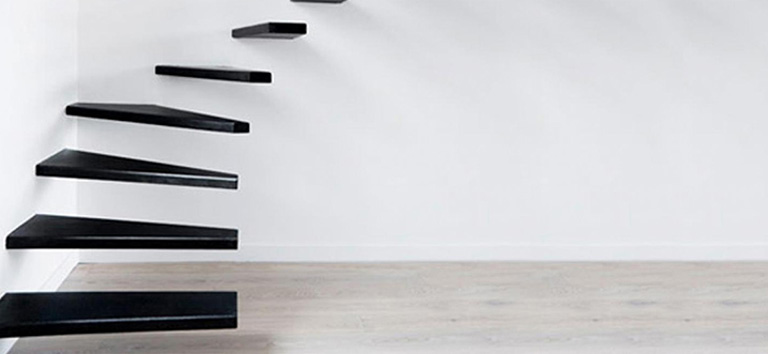
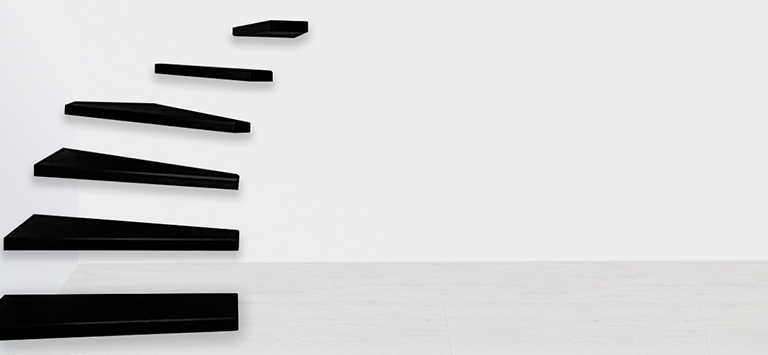
NEw version of site

diff --git a/src/_html_block/reviews/reviews.html b/src/_html_block/reviews/reviews.html
@@ -2,7 +2,7 @@
   <h2 class="reviews__title">Reviews</h2>
   <div class="reviews__slider">
     <div class="reviews__slider-inner">
-      <div>
+      <!-- <div>
         <article class="reviews__slide">
           <header class="reviews__header">SAHOLA Floral Art & Event&nbsp;Design</header>
           <div class="reviews__info">
@@ -26,7 +26,7 @@
             <a href="https://saholany.com/" rel="nofollow" class="reviews__link">www.saholany.com</a>
           </div>
         </article>
-      </div>
+      </div> -->
       <div>
         <article class="reviews__slide">
           <header class="reviews__header">Quality electrical & generator&nbsp;services</header>
@@ -42,7 +42,7 @@
           </div>
           <div class="reviews__slide-descr">
             <div class="reviews__quote-block">
-              <blockquote class="reviews__quote">I want to thank KFL Digital for a great service. The whole development process went smooth. They have reached the desired results on time. It was a pleasure working with you&nbsp;guys.</blockquote>
+              <blockquote class="reviews__quote">I want to thank KFL for a great service. The whole development process went smooth. They have reached the desired results on time. It was a pleasure working with you&nbsp;guys.</blockquote>
               <p class="reviews__author">Oleg</p>
               <p class="reviews__author-position">Co-owner High Quality electrical & generator&nbsp;services</p>
             </div>

diff --git a/src/_html_block/promo/promo.scss b/src/_html_block/promo/promo.scss
@@ -2,13 +2,13 @@
   position: relative;
   &__animation {
     .promo__img-2 {
-      animation: promoStairsOn .6s linear forwards, promoStairsOn .6s linear reverse 3.2s forwards;
+      animation: promoStairsOn .6s linear forwards;
     }
     .promo__img-3 {
-      animation: promoStairsOn .6s linear .6s forwards, promoStairsOn .6s linear reverse 2.6s forwards;
+      animation: promoStairsOn .6s linear .6s forwards;
     }
     .promo__img-4 {
-      animation: promoStairsOn .6s linear 1.2s forwards, promoStairsOn .6s linear reverse 2s forwards;
+      animation: promoStairsOn .6s linear 1.2s forwards;
     }
 
     .promo__slogan-1,

diff --git a/src/work-diagno-check.html b/src/work-diagno-check.html
@@ -2,7 +2,7 @@
 <html lang="en">
 <head>
   <title>Modern creative web design of a landing page for the Diagno Check | KFL Webdesign</title>
-  <meta name="description" content="KFL Webdesign developed a creative, landing page with a suitable web design, simple to use and optimized for all devices for Diagno Check">
+  <meta name="description" content="KFL Webdesign developed a creative, landing page with a suitable web design, simple to use and optimized for all devices for Diagno Check">
   <meta name="keywords" content="">
   @@include("_html_block/head/head.html")
 </head>

diff --git a/src/work-quality-electrical-and-generator-services.html b/src/work-quality-electrical-and-generator-services.html
@@ -2,7 +2,7 @@
 <html lang="en">
 <head>
   <title>Plain and simple Creative Web Desingn for Quality electrical & generator services</title>
-  <meta name="description" content="KFL Webdesign developed the website using WordPress platform with responsive web design for “Quality electrical & generator services”">
+  <meta name="description" content="KFL Webdesign developed the website using WordPress platform with responsive web design for “Quality electrical & generator services”">
   <meta name="keywords" content="">
   @@include("_html_block/head/head.html")
 </head>

diff --git a/src/index.html b/src/index.html
@@ -1,8 +1,8 @@
 <!DOCTYPE html>
 <html lang="en">
 <head>
-  <title>Website design development for small business</title>
-  <meta name="description" content="Website development Agency based in Philadelphia. We make affordable creative design for small business">
+  <title>Website design development for small business | Philadelphia, PA</title>
+  <meta name="description" content="Website development Agency based in Philadelphia. We make affordable creative design for small business.">
   <meta name="keywords" content="">
   @@include("_html_block/head/head.html")
 </head>

diff --git a/src/_html_block/who/who.scss b/src/_html_block/who/who.scss
@@ -1,7 +1,5 @@
 .who {
   position: relative;
-
-  max-width: 1130px;
   padding: 35px 0 50px;
   &--active {
     &::after {
@@ -29,7 +27,8 @@
 
     text-align: right;
 
-    @include main-title(0 7px 0 0);
+    @include main-title(0 15px);
+    padding: 0 40px 0 0;
   }
   &__info {
     position: relative;
@@ -98,6 +97,7 @@
     padding: 20px 0 0;
     &__title {
       margin: 0 58px 10px;
+      padding: 0;
     }
     &::after {
       width: 31%;

diff --git a/src/_html_block/benefits/benefits.html b/src/_html_block/benefits/benefits.html
@@ -3,7 +3,7 @@
   <blockquote class="benefits__quote">Choosing our company you get a number of undoubted advantages</blockquote>
   <div class="benefits__descr">
     <p>Top notch engagement design.</p>
-    <p>Site optimized for all gadgets.</p>
+    <p>The website optimized for all devices.</p>
     <p>High quality development process.</p>
     <p>Flexible development time frame.</p>
     <p>Quality post launch support.</p>

diff --git a/src/_html_block/benefits/benefits.scss b/src/_html_block/benefits/benefits.scss
@@ -3,7 +3,7 @@
 
   background: $bg-gray;
   &__title {
-    text-align: right;
+    text-align: center;
 
     @include main-title(0 0 17px);
   }
@@ -14,7 +14,7 @@
     font-weight: 700;
     line-height: 1.36;
     color: $bg-blue;
-    text-align: right;
+    text-align: center;
     letter-spacing: $letter-spacing-25;
 
     quotes: "\0022" "\0022";

diff --git a/src/_html_block/works/works.scss b/src/_html_block/works/works.scss
@@ -6,7 +6,8 @@
     position: relative;
     z-index: 200;
 
-    @include main-title(0 0 -32px 60px);
+    @include main-title(0 0 10px);
+    text-align: center;
   }
   &__list {
     position: relative;
@@ -74,7 +75,7 @@
 @media #{$tablet} {
   .works {
     &__title {
-      margin-bottom: -20px;
+      margin-bottom: 10px;
     }
   }
 }

diff --git a/src/_html_block/footer/footer.html b/src/_html_block/footer/footer.html
@@ -3,7 +3,7 @@
     <img src="img/logo.svg" alt="kfl webdesign" width="375" height="57">
   </figure>
   <address class="footer__address">
-    630 N. 22nd Street Philadelphia, PA 19130
+    325 Chestnut Street, Suite 800, Philadelphia, 19106
   </address>
   <a href="tel:+380442476897" class="footer__phone">(267) 639 1230</a>
 </footer>

diff --git a/src/_html_block/footer/footer-inner.html b/src/_html_block/footer/footer-inner.html
@@ -5,7 +5,7 @@
     </a>
   </figure>
   <address class="footer__address">
-    630 N. 22nd Street Philadelphia, PA 19130
+    325 Chestnut Street, Suite 800, Philadelphia, 19106
   </address>
   <a href="tel:+380442476897" class="footer__phone">(267) 639 1230</a>
 </footer>

diff --git a/src/_html_block/process/process.html b/src/_html_block/process/process.html
@@ -7,7 +7,7 @@
       <div class="process__descr">
         <p>Understanding client's requirements.</p>
         <p>Business goals.</p>
-        <p>Who is target.</p>
+        <p>Who is a target.</p>
         <p>Audience assessing competition.</p>
       </div>
     </li>
